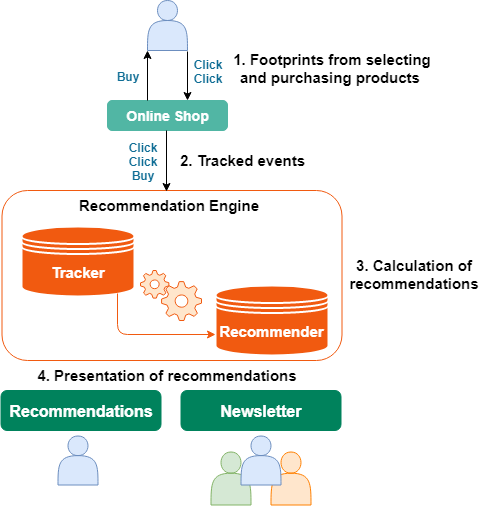
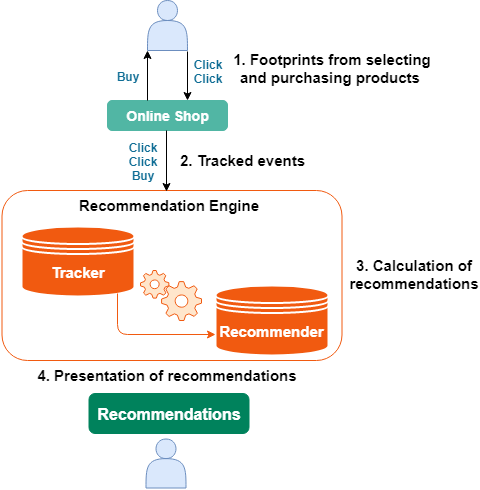
EZEE-3352 - Perso documentation changes

Changed region(s): [[0.0, 0.0, 1.0, 1.0]]

diff --git a/docs/guide/personalization/developer_guide/tracking_api.md b/docs/guide/personalization/developer_guide/tracking_api.md
@@ -12,7 +12,7 @@ In order to provide recommendations a tracking process needs to collect user beh
 - "Login" if a user logs in on a website and
 - "Clickrecommended" if a user decides to click on a recommendation
 
-See user guide chapter [4. Event Types](https://doc.ezplatform.com/projects/userguide/en/master/personalization/event_types.md) for a brief introduction to different types of events. Depending on the event type, some additional parameters like item price or user rating must be provided.
+See user guide chapter [Event Types](https://doc.ibexa.co/projects/userguide/en/latest/personalization/event_types) for a brief introduction to different types of events. Depending on the event type, some additional parameters like item price or user rating must be provided.
 
 ## Wording of products, articles and the generic term items
 
@@ -60,7 +60,7 @@ High quality recommendations can only be delivered if the underlying data is cor
 
     The user identifier is required in tracking requests, otherwise it is discarded from the tracking servers.
 
-    If a browser has JavaScript or cookies disabled, please verify that you put some "dummy" value as identifier in the tracking request to avoid losing tracking information. Even if the event is not user-specific, it is still useful for popularity models (e.g. Topsellers, see [6. Recommendation Models](https://doc.ezplatform.com/projects/userguide/en/master/personalization/recommendation_models.md)).
+    If a browser has JavaScript or cookies disabled, please verify that you put some "dummy" value as identifier in the tracking request to avoid losing tracking information. Even if the event is not user-specific, it is still useful for popularity models (e.g. Topsellers, see [Recommendation Models](https://doc.ibexa.co/projects/userguide/en/latest/personalization/recommendation_models)).
 
 Internally the recommendation engine creates a hash of every user ID. The original ID is not saved. It is still possible that the original ID appears in the log files for debug purposes but log files are are purged regularly. The user ID is case sensitive.
 
@@ -91,7 +91,7 @@ The "categorypath" parameter plays an important role as it offers the possibilit
 
 !!! note "|Category Paths"
 
-    If you import your own item metadata over the recommendation engine import interface, you do not necessarily need to provide the category path in the "click" event. As this is activated by default, please contact <support@yoochoose.com> to set the desired configuration.
+    If you import your own item metadata over the recommendation engine import interface, you do not necessarily need to provide the category path in the "click" event. As this is activated by default, please contact <support@ibexa.co> to set the desired configuration.
 
 ## Tracking Events
 
@@ -117,7 +117,7 @@ The URL to track user clicks has the following format:
 |customerid|Your customer ID, a.k.a. "mandator ID" (for example "00000").|alphanumeric|
 |userid|A user's ID on the website of the customer. It could be an internal customer code, a session code or a cookie for anonymous users. See chapter "Request Format and Parameters" below in this document for more information on user ID.|URL-encoded alphanumeric|
 |itemtypeid|Item type ID. See the chapter Item Type ID for more information. See chapter "Request Format and Parameters" bellow in this document for more information to the item type ID.|1 – 5|
-|itemid|Unique ID of the item the user has clicked.</br>Product IDs based on string identifiers: We also support string identifiers for item IDs to track content on a website but it is discouraged due to fraud and security issues. If you are not able to provide numeric identifiers for the tracking process, please get in touch with us under support@yoochoose.com for further information and implementation notes.|1 to 2147483647|
+|itemid|Unique ID of the item the user has clicked.</br>Product IDs based on string identifiers: We also support string identifiers for item IDs to track content on a website but it is discouraged due to fraud and security issues. If you are not able to provide numeric identifiers for the tracking process, please get in touch with us under support@ibexa.co for further information and implementation notes.|1 to 2147483647|
 
 All embedded parameters are required for the request. Some optional request parameters can be set over query string parameters (GET parameters).
 
@@ -125,7 +125,7 @@ All embedded parameters are required for the request. Some optional request para
 
 |Name|Description|Values|
 |---|---|---|
-|categorypath|The forward slash-separated path of categories of the item. Like all other parameters it must be URL-encoded, for example `%2FCameras%26Foto%2FCompact%20Cameras%2FCanon`</br>See chapter [Category Filter](https://doc.ezplatform.com/projects/userguide/en/master/personalization/filters.md#category-filter) of the user guide for additional use cases of the category path.|URL-encoded string.</br>Forward and trailing slash is ignored; "/Cameras/" is the same as "Cameras"|
+|categorypath|The forward slash-separated path of categories of the item. Like all other parameters it must be URL-encoded, for example `%2FCameras%26Foto%2FCompact%20Cameras%2FCanon`</br>See chapter [Category Filter](https://doc.ibexa.co/projects/userguide/en/latest/personalization/filters/#category-filter) of the user guide for additional use cases of the category path.|URL-encoded string.</br>Forward and trailing slash is ignored; "/Cameras/" is the same as "Cameras"|
 
 ### Consume Event
 
@@ -197,7 +197,7 @@ The format of the URL is: 
 
 !!! note "Deprecated 'transfer' event"
 
-    Based on feedback of our customers and to make the purpose a bit clearer, we renamed the formerly named 'transfer' event to 'login'. As the name implies, it should be used when a user logs in. It covers exactly the same functionality as the transfer event. There is no need to change anything on the customer's side for existing implementations as the transfer event https://event.yoochoose.net/\[solutionid\]/\[customerid\]/transfer/\[sourceuserid\]/\[targetuserid\] will still be supported but should be considered as deprecated!
+    Based on feedback of our customers and to make the purpose a bit clearer, we renamed the formerly named 'transfer' event to 'login'. As the name implies, it should be used when a user logs in. It covers exactly the same functionality as the transfer event. There is no need to change anything on the customer's side for existing implementations as the transfer event `https://event.yoochoose.net/\[solutionid\]/\[customerid\]/transfer/\[sourceuserid\]/\[targetuserid\]` will still be supported but should be considered as deprecated!
 
 ### Basket Event
 
@@ -243,7 +243,7 @@ In a recommendation response, the requests to generate a Clickrecommended or Ren
 
 Example of a recommendation response:
 
-``` jsonp
+``` json
 "recommendationItems": [
     {
       "relevance": 23,
@@ -259,6 +259,8 @@ Example of a recommendation response:
          "clickRecommended" : "//event.yoochoose.net/clickrecommended/johndoe/1/100175717?scenario=also_clicked&modelId=37",
          "rendered" : "//event.yoochoose.net/rendered/johndoe/1/100175717"
       },
+    }
+]
 ```
 
 In the field "links" you can see the delivered request string to be executed when displaying or clicking on recommendations. See [Recommendation API](recommendation_api.md) for more details.
@@ -295,7 +297,7 @@ The render event has the same embedded parameters as a click event except for th
 
 Below are examples for the translation of user actions on a website into tracking requests:
 
-User "Js79009234YU7" navigates to an item with the id 123 and type "1" which is located under Shoes -&gt; Children:
+User "Js79009234YU7" navigates to an item with the id 123 and type "1" which is located under Shoes -> Children:
 
 `GET https://event.yoochoose.net/api/00000/click/Js79009234YU7/1/123?categorypath=%2FShoes%2FChildren`
 
@@ -345,6 +347,6 @@ The following HTTP response codes are used by the event tracker.  
 |401 Unauthorized|Illegal authentication credentials.|
 |403 Forbidden|Access denied (not implemented yet).|
 |404 Not Found|The customer ID (a.k.a. mandator ID) was not found. The event code was not found.|
-|500 Internal Server Error|	Some unspecified error. Please inform support@yoochoose.com if it you get this error repeatedly.|
+|500 Internal Server Error|	Some unspecified error. Please inform support@ibexa.co if it you get this error repeatedly.|
 
 In case of errors the body of the response contains human-readable error messages. Human-readable error messages can be changed and should not be used for automated processing.

diff --git a/docs/guide/personalization/recommendation_client.md b/docs/guide/personalization/recommendation_client.md
@@ -3,13 +3,11 @@
 [`ezrecommendation-client`](https://github.com/ezsystems/ezrecommendation-client) adds a personalization solution to [[= product_name_oss =]].
 
 It enables you to track the way visitors use your website and recommends content based on their behavior.
-You can also use the personalized search (content suggestions)
-and personalized newsletter features (embedding personalized content in your newsletters).
 
 !!! tip "More information"
 
     This page covers the `ezrecommentation-client`, which communicates with the Recommendation engine.
-    To learn more about the engine itself, see [eZ Personalization documentation](https://doc.ezplatform.com/projects/ezpersonalization).
+    To learn more about the engine itself, see [Personalization](personalization.md).
 
 ## Installation
 
@@ -55,7 +53,7 @@ Register an account (customerID) with your eZ Sales manager.
 !!! tip
 
     If you want to use the Recommendation engine with the open source version of [[= product_name_oss =]],
-    send an email to support@yoochoose.com.
+    send an email to support@ibexa.co.
 
 ### 4. Allow public HTTP(S) access
 
@@ -220,9 +218,9 @@ Place the following code snippet in the `<head>` section of your header template
 
 !!! tip "How tracking works"
 
-    In the eZ Services documentation you can find more information
-    about [tracking in general](https://doc.ezplatform.com/projects/ezservices/en/latest/personalization/developer_guide/tracking_api/)
-    and about the [generic asynchronous JavaScript tracker](https://doc.ezplatform.com/projects/ezpersonalization/en/latest/personalization/developer_guide/tracking_with_yct/).
+    For more information
+    about tracking in general, see (Tracking API)](developer_guide/tracking_api.md)
+    and about the [generic asynchronous JavaScript tracker](developer_guide/tracking_with_yct.md).
 
 ### Checking if the bundle provides REST data
 
@@ -381,53 +379,12 @@ switch to the Item Import tab and check if a FULL import was successful.
 
 ![Item Import tab with full import results](img/reco_full_import.png)
 
-#### Personalized Search Requests
-
-Since the search functionality is included by default,
-you can also create and perform a search request to look for content that matches certain criteria.
-The easiest way to do this is to assign the content ID to the request parameter `q`.
-Make sure that the content ID is at least 2 characters long (for example, `&q=73`).
-
-`GET https://reco.yoochoose.net/api/v4/search/<your_customer_id>/get_suggestions.json?item=5&itemtype=<your_content_type>&q=<your_content_id>&attribute=name&attribute=author&attribute=uri&attribute=<your_custom_attribute>`
-
-??? note "Example response"
-
-    ``` json
-    {
-        "ITEM": [
-            {
-                "yc_score": 2.209763288497925,
-                "yc_id": "72",
-                "yc_itemtype": "38",
-                "name": "Kochin, India",
-                "uri": "/Places-Tastes/Places/Kochin-India",
-                "author": "Sandip Patel"
-            },
-            {
-                "yc_score": 1.152622938156128,
-                "yc_id": "73",
-                "yc_itemtype": "38",
-                "name": "Santo Domingo, Dominican Republic",
-                "uri": "/Places-Tastes/Places/Santo-Domingo-Dominican-Republic",
-                "author": "Michael Wang"
-            }
-        ],
-        "details": [
-            {
-                "scope": "ITEM",
-                "itemType": 38,
-                "count": 2
-            }
-        ]
-    }
-    ```
-
 ### Subsequent content exports
 
 The Recommendation engine is automatically kept in sync with the content in [[= product_name_oss =]].
 
 Every time an editor creates, updates or deletes content in the Back Office (1),
-a notification is sent to https://admin.yoochoose.net (2).
+  a notification is sent to https://admin.yoochoose.net (2).
 The recommendation service also notifies other components of the Recommendation engine (3)
 and it eventually fetches the affected content (4) and updates it internally (5).
 

diff --git a/docs/guide/personalization/developer_guide/recommendation_api.md b/docs/guide/personalization/developer_guide/recommendation_api.md
@@ -6,7 +6,7 @@
 
     **BASIC Authentication** for fetching recommendations is disabled by default. If enabled, use the customerid as username and the license key as password. The license key is displayed in the upper right corner in the Admin GUI ([https://admin.yoochoose.net](https://admin.yoochoose.net/)) after logging in with your registration credentials.
 
-    If you plan to use [JSONP](https://en.wikipedia.org/wiki/JSONP), authentication must be disabled. If it is enabled in your solution and you want to remove authentication for recommendation requests, please contact <support@yoochoose.com> for further information and disabling.
+    If you plan to use [JSONP](https://en.wikipedia.org/wiki/JSONP), authentication must be disabled. If it is enabled in your solution and you want to remove authentication for recommendation requests, please contact <support@ibexa.co> for further information and disabling.
 
 Recommendations are retrieved from the Recommendation Engine via RESTful requests using the HTTP GET method. The result is at least a list of item IDs that can be used to call the underlying CMS or shop system in order to postload the necessary information for the rendering process.
 
@@ -14,7 +14,7 @@ Recommendations are retrieved from the Recommendation Engine via RESTful request
 
     If a data import via the [Content API](content_api.md) has been successful, it is also possible to fetch rendering data like e.g. "title", "description" or "deeplink" from the recommendation response.
 
-To allow a customer to get recommendations based on predefined configurations, so-called "scenarios" are used. Scenarios are a combination of models and filters that should be applied to recommendation results including possible fallbacks. See [8. Scenarios](https://doc.ezplatform.com/projects/userguide/en/master/personalization/scenarios.md), [6. Recommendation Models](https://doc.ezplatform.com/projects/userguide/en/master/personalization/recommendation_models.md) and [7. Filters](https://doc.ezplatform.com/projects/userguide/en/master/personalization/filters.md) for more information about scenario configuration.
+To allow a customer to get recommendations based on predefined configurations, so-called "scenarios" are used. Scenarios are a combination of models and filters that should be applied to recommendation results including possible fallbacks. See [Scenarios](https://doc.ibexa.co/projects/userguide/en/latest/personalization/scenarios/), [Recommendation Models](https://doc.ibexa.co/projects/userguide/en/latest/personalization/recommendation_models/) and [Filters](https://doc.ibexa.co/projects/userguide/en/latest/personalization/filters/) for more information about scenario configuration.
 
 A recommendation request looks like this:
 
@@ -133,7 +133,7 @@ Example JSON response:
 
 Example JSONP response:
 
-``` jsonp
+``` json
 jsonpCallback({
   "contextItems": [ // information about the request's contextitem(s)
     {

diff --git a/docs/guide/personalization/developer_guide/tracking_with_yct.md b/docs/guide/personalization/developer_guide/tracking_with_yct.md
@@ -60,8 +60,8 @@ _ycq.push(['_trackEvent', '1', 'click', 'https://mydoc.pdf', 'user1234']);
 | Object          | Description   | Example  |
 | --------------- | ------------- | ----- |
 | `_setMandator ` | - Executed with one additional parameter: `MandatorId` | `_ycq.push (['_setMandator' , '<YOUR_MANDATOR_ID>']);` |
-| `_trackEvent` | - Executed with 4 additional parameters: `ItemType`, `EventType`, `ItemId`, `UserId`.<br /> - `EventType` can be any of the [described types](https://doc.ezplatform.com/projects/userguide/en/master/personalization/event_types.md) |  capturing an event: `_ycq.push(['_trackEvent', '1', 'buy', 'https://mydoc.pdf', 'user1234x']);` |
-| `_trackTimedEvent` | - Executed with 5 additional parameters: `ItemType`, `EventType`, `ItemId`, `Timeout`, `UserId`.<br /> - `EventType` can be any of the [described types](https://doc.ezplatform.com/projects/userguide/en/master/personalization/event_types.md).<br /> - `Timeout` can be any integer greater than than 0 representing time in ms | consume event sent after 20s: `_ycq.push(['_trackTimedEvent', '1', 'consume', 'https://mydoc.pdf', '20000', 'user1234x']);` |
+| `_trackEvent` | - Executed with 4 additional parameters: `ItemType`, `EventType`, `ItemId`, `UserId`.<br /> - `EventType` can be any of the [described types](https://doc.ibexa.co/projects/userguide/en/latest/personalization/event_types) |  capturing an event: `_ycq.push(['_trackEvent', '1', 'buy', 'https://mydoc.pdf', 'user1234x']);` |
+| `_trackTimedEvent` | - Executed with 5 additional parameters: `ItemType`, `EventType`, `ItemId`, `Timeout`, `UserId`.<br /> - `EventType` can be any of the [described types](https://doc.ibexa.co/projects/userguide/en/latest/personalization/event_types).<br /> - `Timeout` can be any integer greater than than 0 representing time in ms | consume event sent after 20s: `_ycq.push(['_trackTimedEvent', '1', 'consume', 'https://mydoc.pdf', '20000', 'user1234x']);` |
 | `_login` | - Executed with 2 additional parameters: anonymous userId, pseudonymous userId.<br /> - It is to be triggered when a user logs in and the tracking identity is changed.<br /> |-|
 | `ycreco=true` | - If you want to send a click recommended event you can append the following parameter to the recommended item URLs: | [https://mydomain.com/mypage.html?ycreco=true](https://mydomain.com/mypage.html?ycreco=true) or <br />[https://mydomain.com/mypage.html?myparameter=x&ycreco=true](https://mydomain.com/mypage.html?myparameter=x&ycreco=true) |
 

diff --git a/docs/guide/personalization/personalization_quickstart.md b/docs/guide/personalization/personalization_quickstart.md
@@ -12,7 +12,7 @@ The most popular footprints are selecting and purchasing  products **(1)**.
 This information is sent to the event tracker service of the recommendation engine every time these events happen **(2)**.
 The recommendation engine accumulates the tracked events, categorizes them and calculates recommendations for every product and every user in the shop **(3)**.
 All recommendations are available over the recommender service.
-They can be fetched and presented to users during their sessions or sent out e.g. as a newsletter **(4)**.
+They can be fetched and presented to users during their sessions.
 
 ![Overview of how recommendation works](img/recommendation_overview.png)
 
@@ -26,7 +26,7 @@ Integration is based on the following:
 !!! note
 
     Below we use the mandator ID '00000' for creating requests.
-    You must substitute it with your own ID which is generated and sent to you by mail at the end of a successful registration process under [https://admin.yoochoose.net](https://admin.yoochoose.net/).
+    In real-life scenario, you will use your own ID that you receive from Ibexa.
 
 ### Tracking Events
 
@@ -165,12 +165,10 @@ Tracking more events, using additional parameters and custom scenario configurat
 
 Additional features are available for the Advanced edition of the recommendation engine:
 
-- A/B testing
-- Personalized Search
 - Using "rate" and "like" events
 - Additional models such as content-based, random, history etc.
 - Multiple product types (for example food/non-food or article/image/video) and cross-type recommendations
 - Price-based filtering (do not recommend cheap products)
 - Grouping products by custom attributes (size, color, source, theme etc.)
 
-More detailed information can be found in the [User Guide](https://doc.ezplatform.com/projects/userguide/en/master/personalization/introduction.md).
+More detailed information can be found in the [User Guide](https://doc.ibexa.co/projects/userguide/en/latest/personalization/personalization).

diff --git a/docs/guide/personalization/developer_guide/legacy_recommendation_api.md b/docs/guide/personalization/developer_guide/legacy_recommendation_api.md
@@ -16,7 +16,7 @@ Before recommendation can be fetched from the recommendation controller, a suffi
     The license key is displayed in the upper right in the Admin GUI ([https://admin.yoochoose.net](https://admin.yoochoose.net/)) after logging with your registration credentials.
 
     If you plan to use [JSONP](https://en.wikipedia.org/wiki/JSONP), authentication must be disabled.
-    If it is enabled in your solution (can be easily tested with a recommendation request in a browser), please contact the eZ Recommender support (<support@yoochoose.com>) for further information and disabling.
+    If it is enabled in your solution (can be easily tested with a recommendation request in a browser), please contact the eZ Recommender support (<support@ibexa.co>) for further information and disabling.
 
 ## Getting recommendations
 
@@ -152,7 +152,7 @@ Item's attribute, e.g. color, price, etc.
 These are customer specific and can only be understood by the recommender system if the item attributes are imported by using the YOOCHOOSE content import APIs.
 There can be multiple attributename and attributevalue pairs.
 
-Legacy Recommendation API and [Submodel configuration](https://doc.ezplatform.com/projects/userguide/en/master/personalization/recommendation_models.md#submodels) is required for taking an advantage from this parameter.
+Legacy Recommendation API and [Submodel configuration](https://doc.ibexa.co/projects/userguide/en/latest/personalization/recommendation_models/#submodels) is required for taking an advantage from this parameter.
 
 **Values**: alphanumeric=alphanumeric [&alphanumeric=alphanumeric]
 

diff --git a/docs/guide/personalization/developer_guide/user_api.md b/docs/guide/personalization/developer_guide/user_api.md
@@ -10,7 +10,7 @@ It is useful to add metadata to users in order to classify them and attach them 
 
 !!! note
 
-    Please contact <support@yoochoose.com> if you are planning to import user metadata in order to be compliant with privacy regulations.
+    Please contact <support@ibexa.co> if you are planning to import user metadata in order to be compliant with privacy regulations.
 
 Following is an example user metadata in xml format. All attribute keys and values are chosen arbitrarily.
 
